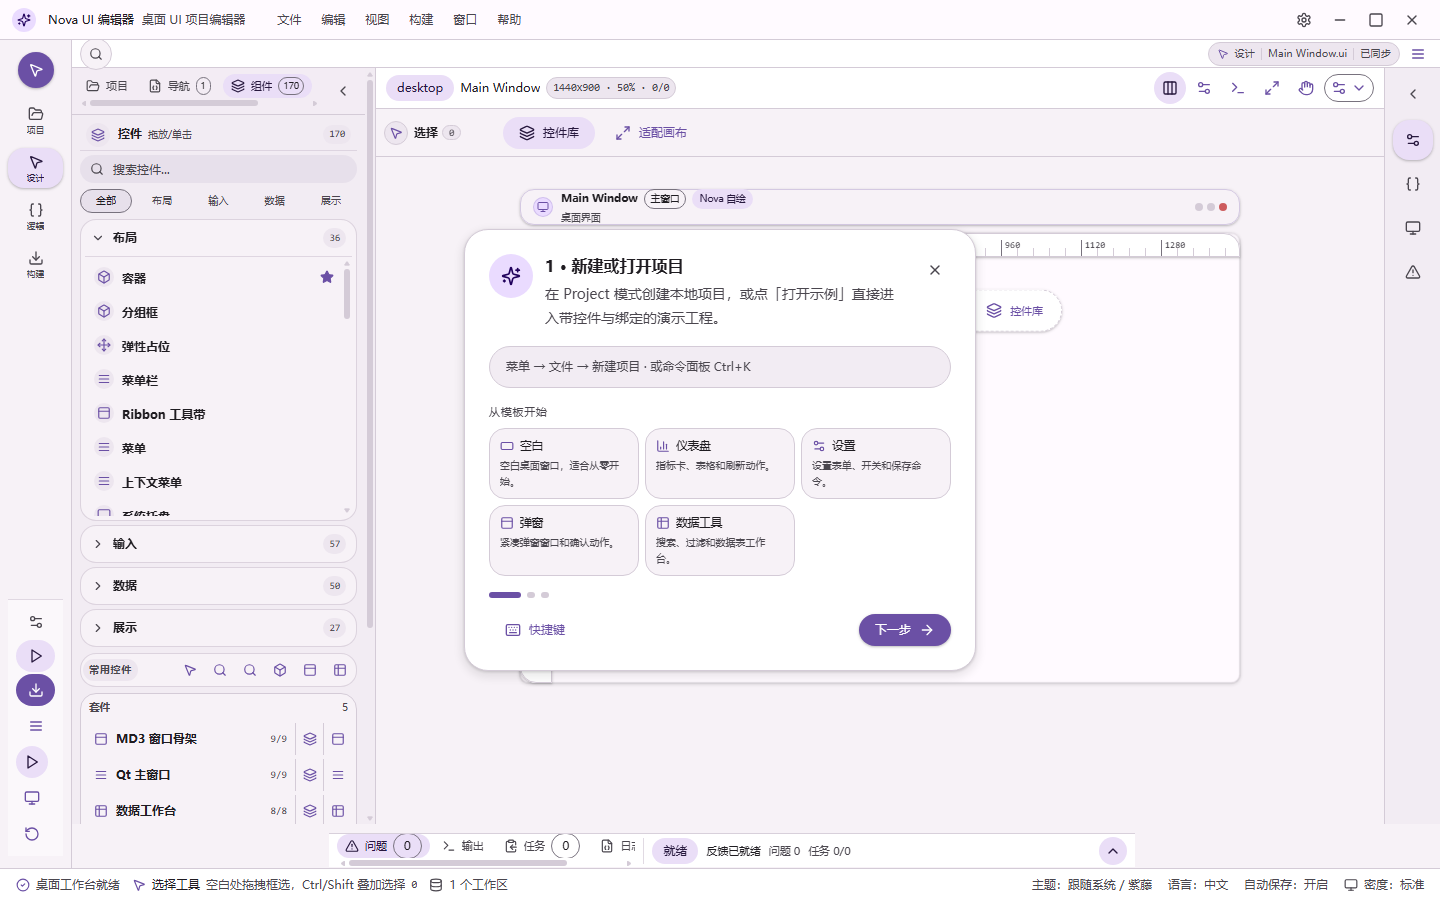
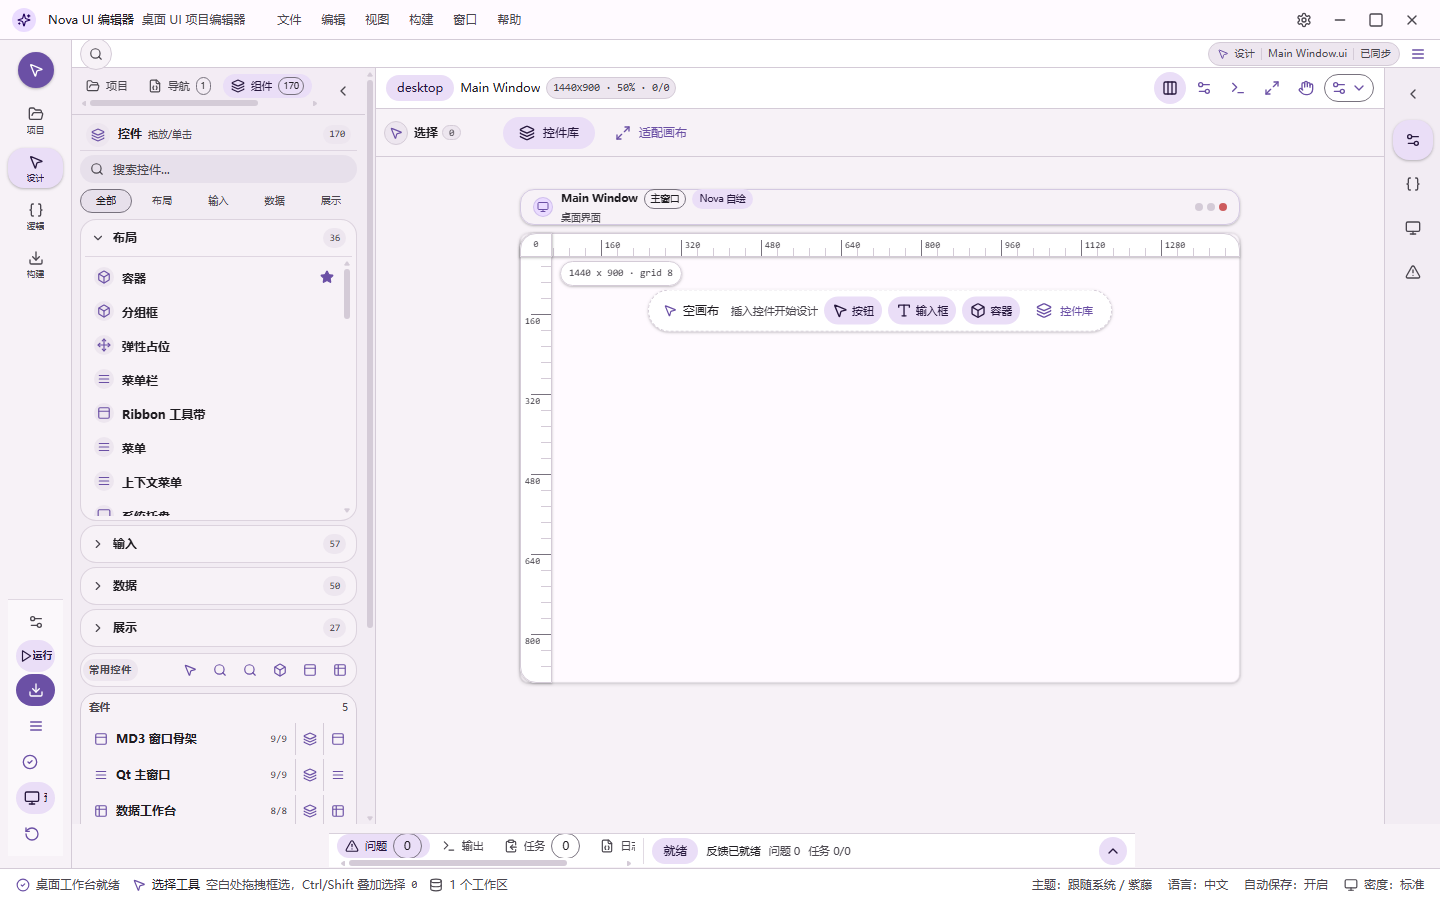
feat: count chips only speak for a closed section
Logic's expanded workbench carried 28 status chips, eleven of which were bare
counts sitting on section headers whose lists were already open underneath.
A count is what a collapsed section stands for; once the list is showing, the
list says it better than a chip does.

The six resource-section counts now use `group-open:hidden`, so they paint
while the section is closed and get out of the way when it opens.

Also fixes the docs screenshots, which were being taken with the first-run
modal covering the workbench — every workspace image was a picture of a
dialog. The capture script now suppresses onboarding the way the a11y driver
does.

| workbench | expanded before | expanded after |
|-----------|----------------:|---------------:|
| logic     |              28 |             22 |

Budgets tightened to match, so the improvement cannot quietly drift back.

diff --git a/src/components/showcase/builder/LogicView.tsx b/src/components/showcase/builder/LogicView.tsx
@@ -487,7 +487,9 @@ export function LogicView(props: { scope: LogicViewScope }): ReactNode {
                       </span>
                     </span>
                     <span className="flex shrink-0 items-center gap-1.5">
-                      <Badge variant="outline" className="h-5 px-1.5 text-[0.58rem]">{filteredLogicConnectionRows.length}</Badge>
+                      {/* The count is what a closed section stands for. Once it
+                          is open the list says it better than a chip does. */}
+                      <Badge variant="outline" className="h-5 px-1.5 text-[0.58rem] group-open:hidden">{filteredLogicConnectionRows.length}</Badge>
                       <ChevronRight aria-hidden className="size-3.5 text-on-surface-variant transition-transform group-open:rotate-90" />
                     </span>
                   </summary>
@@ -618,7 +620,7 @@ export function LogicView(props: { scope: LogicViewScope }): ReactNode {
                       </span>
                     </span>
                     <span className="flex shrink-0 items-center gap-1.5">
-                      <Badge variant="outline" className="h-5 px-1.5 text-[0.58rem]">{filteredRustCommands.length}</Badge>
+                      <Badge variant="outline" className="h-5 px-1.5 text-[0.58rem] group-open:hidden">{filteredRustCommands.length}</Badge>
                       <ChevronRight aria-hidden className="size-3.5 text-on-surface-variant transition-transform group-open:rotate-90" />
                     </span>
                   </summary>
@@ -674,7 +676,7 @@ export function LogicView(props: { scope: LogicViewScope }): ReactNode {
                       </span>
                     </span>
                     <span className="flex shrink-0 items-center gap-1.5">
-                      <Badge variant="outline" className="h-5 px-1.5 text-[0.58rem]">{filteredRustModules.length}</Badge>
+                      <Badge variant="outline" className="h-5 px-1.5 text-[0.58rem] group-open:hidden">{filteredRustModules.length}</Badge>
                       <ChevronRight aria-hidden className="size-3.5 text-on-surface-variant transition-transform group-open:rotate-90" />
                     </span>
                   </summary>
@@ -732,7 +734,7 @@ export function LogicView(props: { scope: LogicViewScope }): ReactNode {
                       </span>
                     </span>
                     <span className="flex shrink-0 items-center gap-1.5">
-                      <Badge variant="outline" className="h-5 px-1.5 text-[0.58rem]">{filteredCargoDependencies.length}</Badge>
+                      <Badge variant="outline" className="h-5 px-1.5 text-[0.58rem] group-open:hidden">{filteredCargoDependencies.length}</Badge>
                       <ChevronRight aria-hidden className="size-3.5 text-on-surface-variant transition-transform group-open:rotate-90" />
                     </span>
                   </summary>
@@ -791,7 +793,7 @@ export function LogicView(props: { scope: LogicViewScope }): ReactNode {
                       </span>
                     </span>
                     <span className="flex shrink-0 items-center gap-1.5">
-                      <Badge variant="outline" className="h-5 px-1.5 text-[0.58rem]">{filteredBackendIntegrations.length}</Badge>
+                      <Badge variant="outline" className="h-5 px-1.5 text-[0.58rem] group-open:hidden">{filteredBackendIntegrations.length}</Badge>
                       <ChevronRight aria-hidden className="size-3.5 text-on-surface-variant transition-transform group-open:rotate-90" />
                     </span>
                   </summary>
@@ -849,7 +851,7 @@ export function LogicView(props: { scope: LogicViewScope }): ReactNode {
                       </span>
                     </span>
                     <span className="flex shrink-0 items-center gap-1.5">
-                      <Badge variant="outline" className="h-5 px-1.5 text-[0.58rem]">{filteredStateVariables.length}</Badge>
+                      <Badge variant="outline" className="h-5 px-1.5 text-[0.58rem] group-open:hidden">{filteredStateVariables.length}</Badge>
                       <ChevronRight aria-hidden className="size-3.5 text-on-surface-variant transition-transform group-open:rotate-90" />
                     </span>
                   </summary>

diff --git a/docs/usability-density.md b/docs/usability-density.md
@@ -29,7 +29,7 @@
 |--------|----------------:|---------------:|-------------------:|
 | project | 19 | 22 | 35% |
 | design | 11 | 12 | 17% |
-| logic | 17 | 28 | 33% |
+| logic | 17 | 22 | 26% |
 | build | 11 | 23 | 41% |
 
 ## 规则：什么时候该染色
@@ -38,6 +38,7 @@
 
 - **要动手** → 染色：`未保存`、`待生成`、`待构建`、`运行中`、`失败`、`缺失`。
 - **不用动手** → 只进无障碍树（`sr-only`），不占视觉：`就绪`、`空`、`已同步`、`目录`、`文件`、`.nova`、`产物`、计数为 0。
+- **折叠区的计数** → 只在折叠时染色（`group-open:hidden`）。展开后列表本身就说明了数量，再挂一个 chip 是重复。折叠时它就是这个区的「含义」，必须留。
 
 实现落在 `src/components/showcase/builder/view-helpers.tsx`：
 
@@ -68,9 +69,10 @@ npm run check:ui-density:report   # 只打印，含重复标签直方图
 | 2 | 树行只在需要动手时染色（`SignalChip`） | project 行级装饰去掉 |
 | 3 | Build 区块摘要与计数徽章按 `StateBadge` 静音 | build 空态不再连喊 6 次「空」 |
 | 4 | 拓扑卡范围 chip 与图例去掉（标题已说明范围） | project expanded 34 → 22 |
+| 5 | 折叠区计数 chip 只在折叠时显示 | logic expanded 28 → 22 |
 
 ## 还能往哪推
 
-- logic 展开态 28 chips，其中 `1` / `0` 计数徽章占 11 个——适合同样按「计数为 0 不染色」处理。
 - project 顶部栏的 `来源已同步` / `编辑器状态` 等区块标签仍是装饰，可以再收一轮。
-- 文本预算还可以再压：Build 展开态 1079 字符，多为解释性长句，可改为默认折叠的详情。
+- build 展开态 23 chips / 41% 装饰比是四屏里最高的：`需要计划`×3、`待开始`×2、`0`×2，适合按同一规则处理。
+- 文本预算还可以再压：Build 展开态 1083 字符，多为解释性长句，可改为默认折叠的详情。
